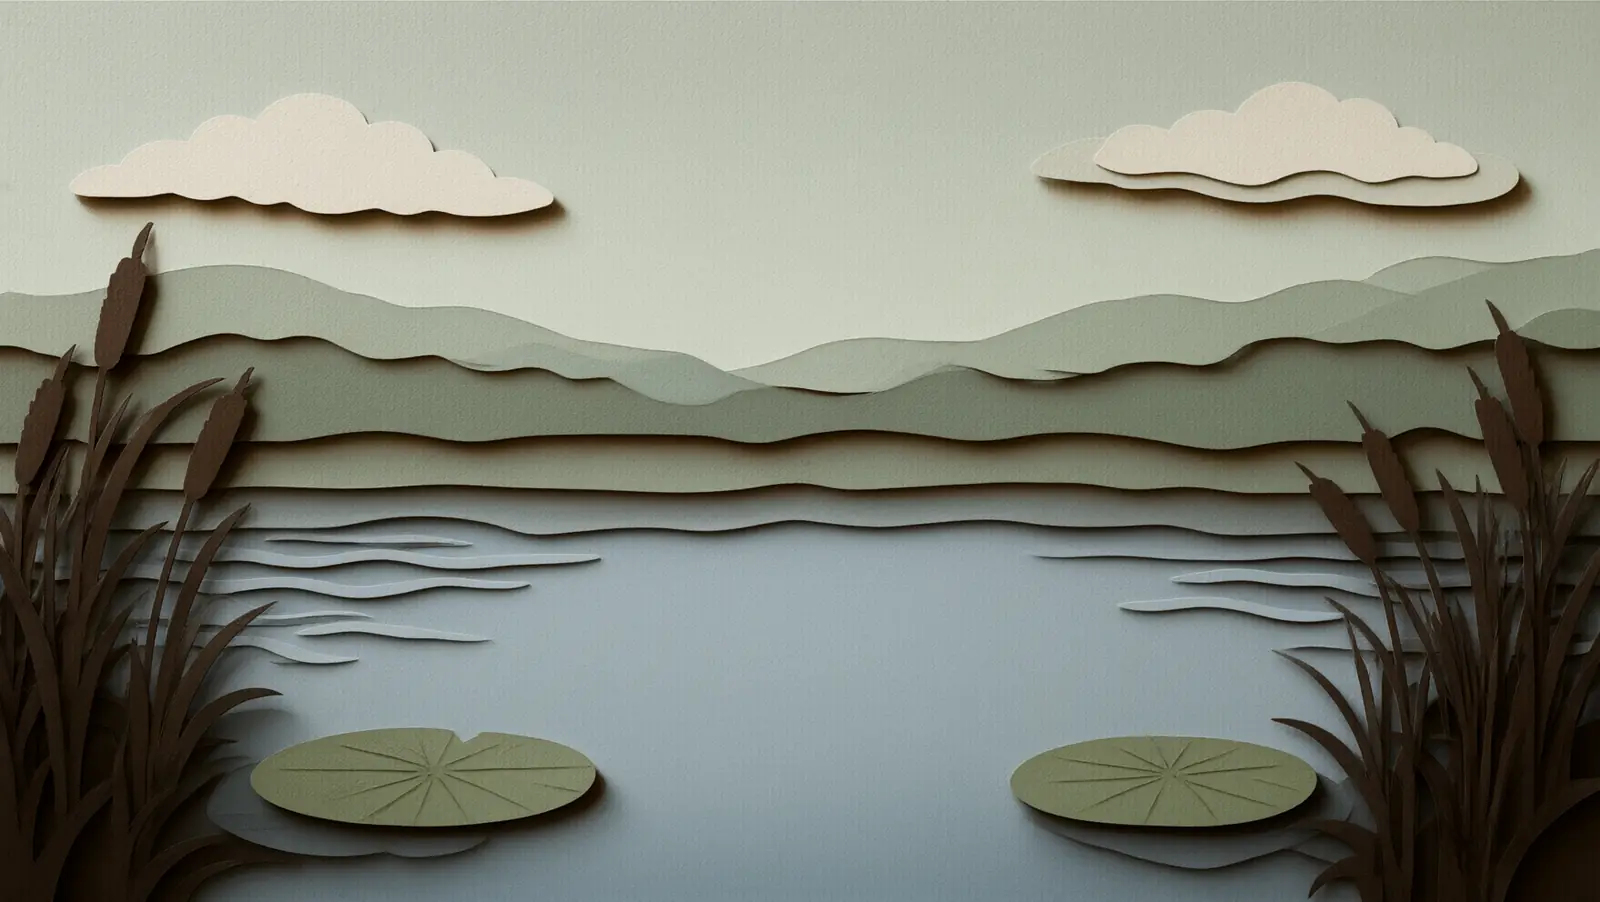
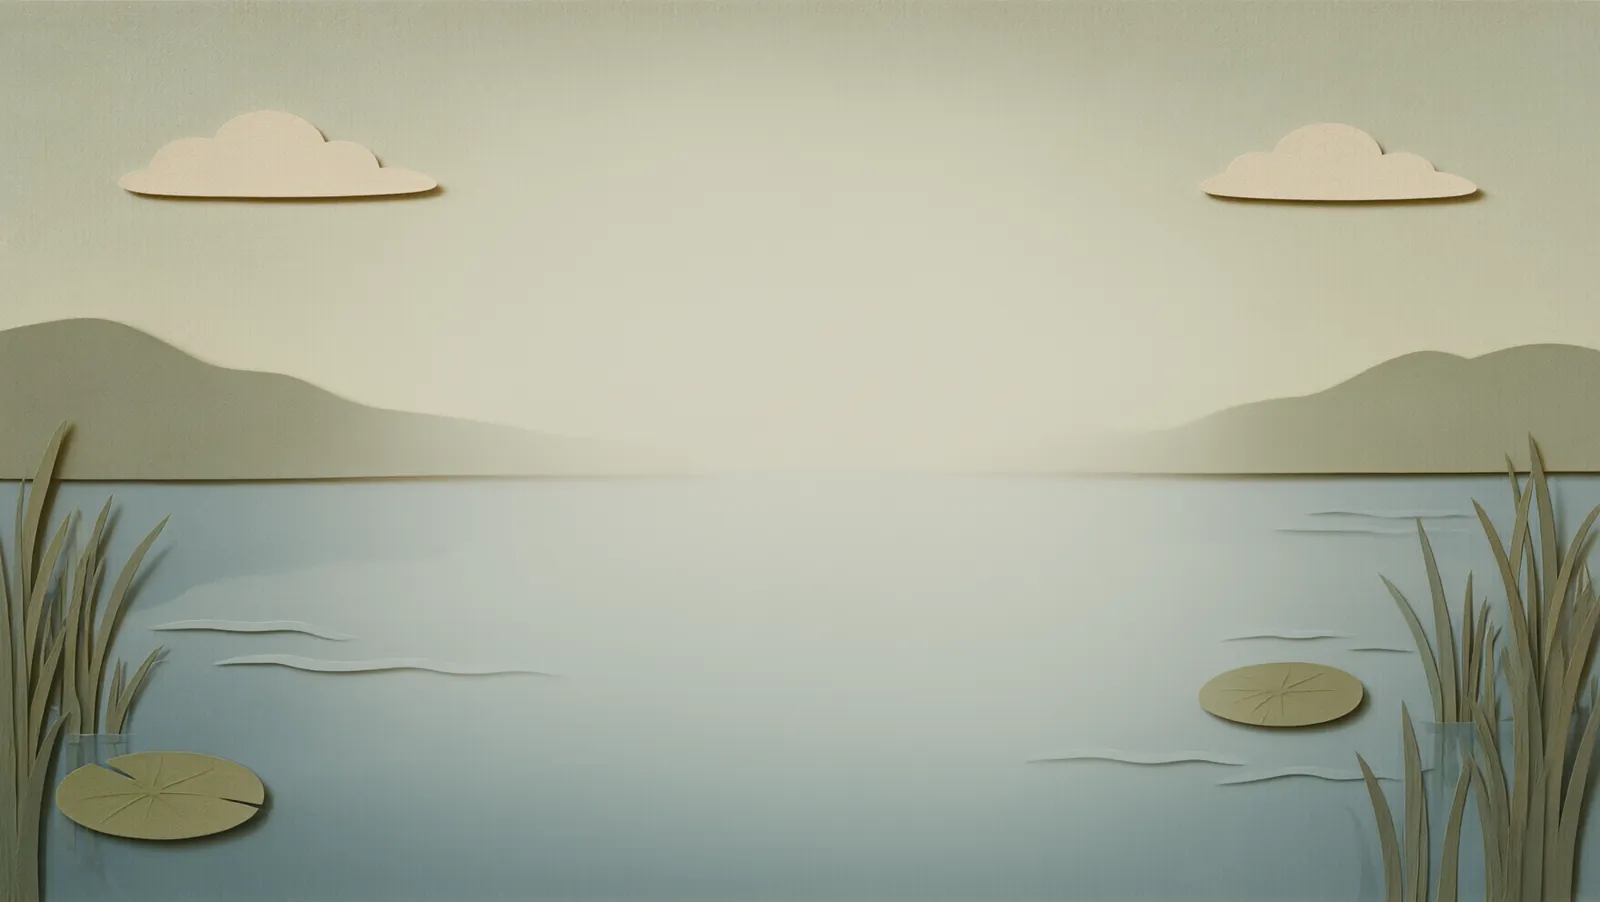
미운 오리 새끼 오두막·늪 배경 2장 새 규칙으로 교체: 평평한 벽과 난로·창·깔개만, 늪은 하늘 한 장에 물 한 겹
Claude-Session: https://claude.ai/code/session_01LNk5ZqxZZjA2bBcEAsTsQ1

diff --git a/tales/ugly_duckling/ugly_duckling.js b/tales/ugly_duckling/ugly_duckling.js
@@ -69,8 +69,8 @@
   /* 배경 그림: 무대 1000×560을 덮고 가장자리를 조금 더 덮는다 (그림 비율 1760:992).
      BG_FIT[key] = [배율, 그림 속 점 u, v(비율), 그 점이 올 무대 x, y] — 배율 1이면 그림 전체를 무대에 맞춘다 */
   const BG_EDGE = { nest: ['#a5c4b6', '#37502d'], pond: ['#bfd4d7', '#5f4326'], yard: ['#9ec8df', '#706e50'], reeds: ['#bad2d9', '#533f27'],
-    swamp: ['#b5b9ab', '#515a5c'], swamp_high: ['#a1ad95', '#5a7076'], autumn: ['#fee7c8', '#4a280f'], winter: ['#d2e4f4', '#eef3fb'],
-    cabin: ['#cab18f', '#88562f'], spring: ['#c3dcdf', '#889669'], reflect: ['#c5e4ed', '#77cae2'] };
+    swamp: ['#b9bca8', '#8fa6ad'], swamp_high: ['#a1ad95', '#5a7076'], autumn: ['#fee7c8', '#4a280f'], winter: ['#d2e4f4', '#eef3fb'],
+    cabin: ['#c99a58', '#c9944f'], spring: ['#c3dcdf', '#889669'], reflect: ['#c5e4ed', '#77cae2'] };
   const BG_FIT = { reeds: [1.3, .5, .5, 500, 280] };
   function bgRect(key) {
     const w0 = 1080, h0 = w0 * 992 / 1760, f = BG_FIT[key];
